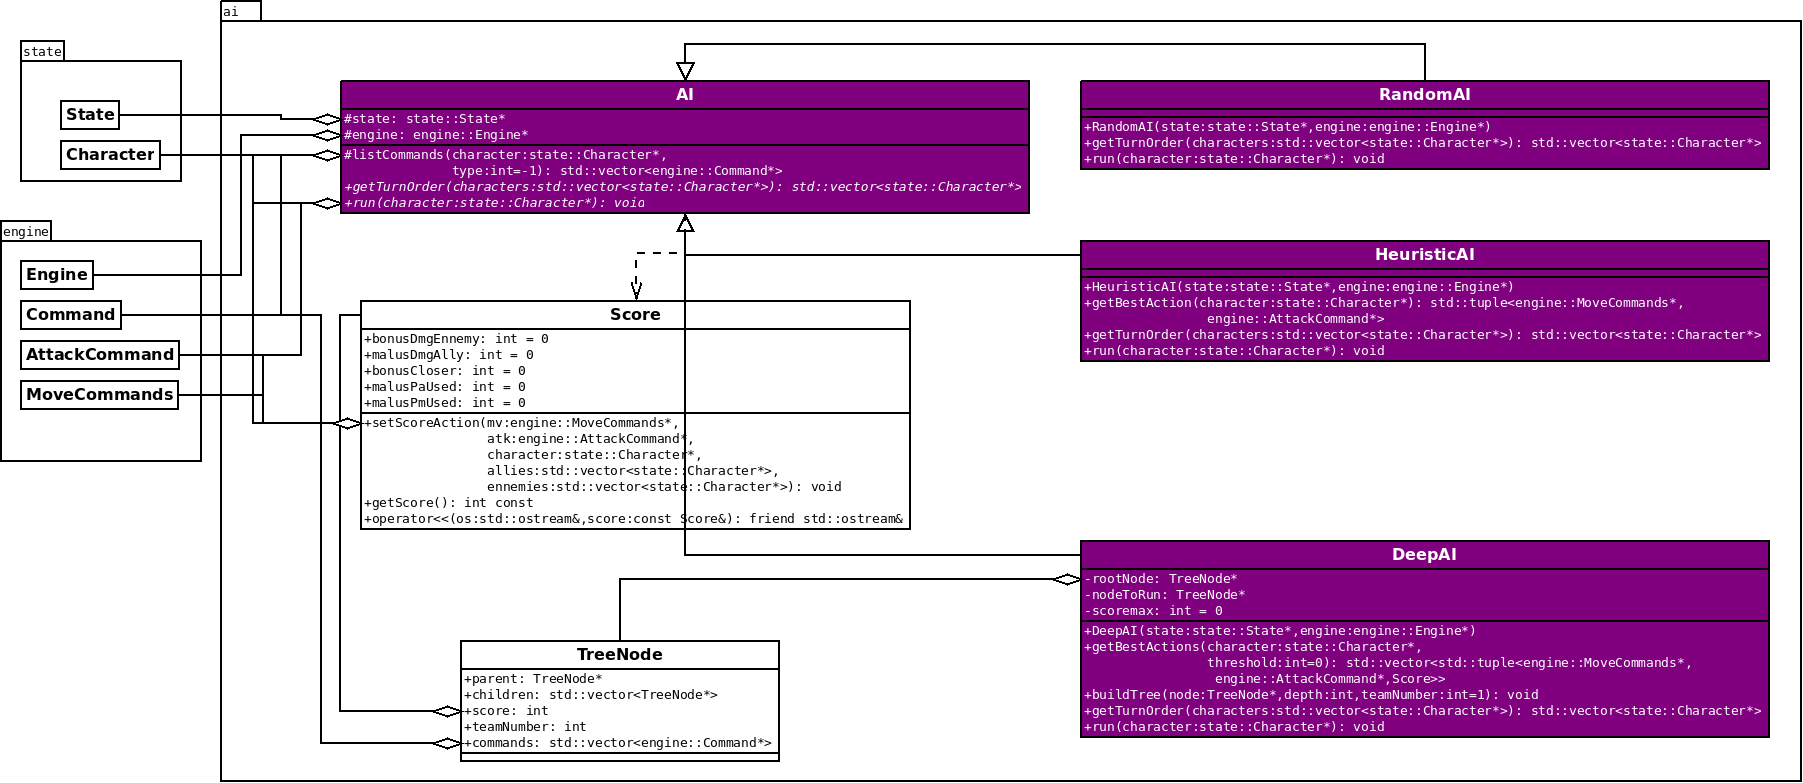
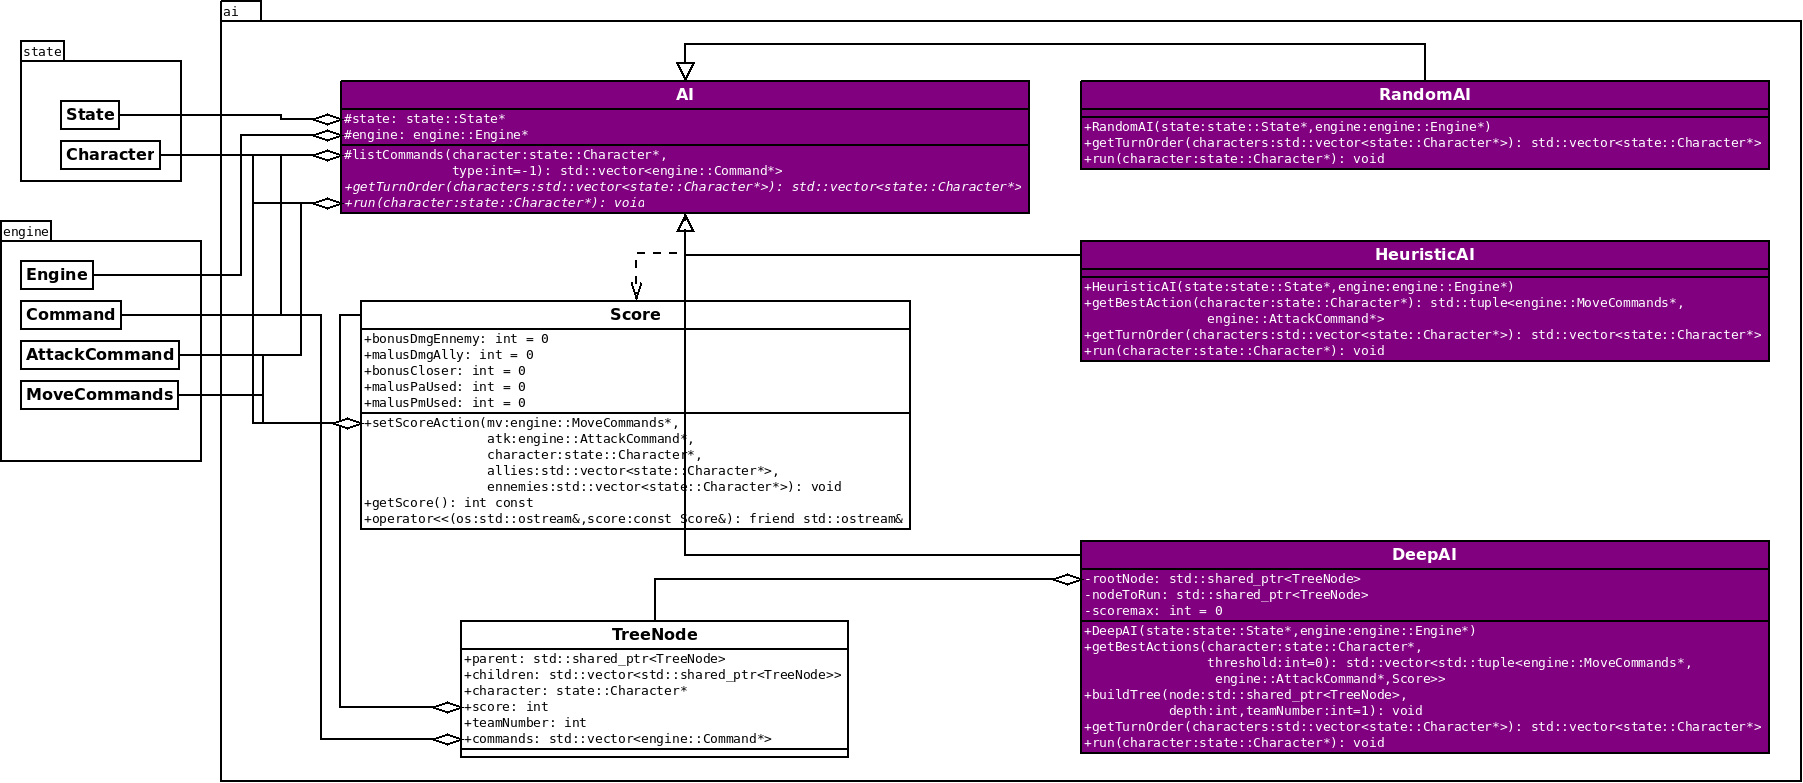
ia avancee fonctionnelle mais pas efficace

Changed region(s): [[0.5901, 0.8582, 0.9939, 0.9808], [0.1864, 0.7356, 0.4659, 0.9808], [0.6522, 0.7356, 0.7765, 0.7663]]

diff --git a/src/shared/ai/DeepAI.cpp b/src/shared/ai/DeepAI.cpp
@@ -94,7 +94,8 @@ vector<tuple<MoveCommands*, AttackCommand*, Score>> DeepAI::getBestActions(
   return actions;
 }
 
-void DeepAI::buildTree(TreeNode* node, int depth, int teamNumber) {
+void DeepAI::buildTree(shared_ptr<TreeNode> node, int depth, int teamNumber) {
+  int threshold = 200;
   if (depth == 0) {
     if (node->score > scoremax) {
       nodeToRun = node;
@@ -111,7 +112,7 @@ void DeepAI::buildTree(TreeNode* node, int depth, int teamNumber) {
 
   vector<vector<tuple<MoveCommands*, AttackCommand*, Score>>> actionss;
   for (auto character : allies) {
-    actionss.push_back(getBestActions(character, 200));
+    actionss.push_back(getBestActions(character, threshold));
   }
 
   if (actionss.size() == 0) {
@@ -127,55 +128,64 @@ void DeepAI::buildTree(TreeNode* node, int depth, int teamNumber) {
     allies = fight->getFightingCharacters(teamNumber);
     ennemies = fight->getFightingCharacters(1 - teamNumber);
     for (auto character : allies) {
-      actionss.push_back(getBestActions(character, 200));
+      actionss.push_back(getBestActions(character, threshold));
     }
   }
 
-  int k = 0;
+  int k = 0, k2 = 0;
   for (auto character : allies) {
-    auto actions = actionss[k++];
-    int i0 = character->getI(), j0 = character->getJ();
-    for (auto action : actions) {
-      MoveCommands* mv = get<0>(action);
-      AttackCommand* atk = get<1>(action);
-      int i, j;
-      if (mv) {
-        i = mv->getDiff()[0], j = mv->getDiff()[1];
-      }
-      TreeNode* childNode = new TreeNode();
-      childNode->commands.push_back(mv);
-      childNode->commands.push_back(atk);
-      childNode->parent = node;
-      childNode->teamNumber = teamNumber;
-      childNode->score =
-          node->score + (2 * teamNumber - 1) * get<2>(action).getScore();
-      // cout << childNode << " " << teamNumber << " " <<
-      // get<2>(action).getScore()
-      //      << " " << depth << endl;
-      node->children.push_back(childNode);
-      if (mv) {
-        MoveCommand mvcmd(state, character, i0 + i, j0 + j, i + j);
-        mvcmd.execute();
-      }
-      if (atk) {
-        DamageCommand dmgcmd(state, engine, atk->getZone(1), {-1}, 0, 0,
-                             character->getWeapon()
-                                 ->getAbility(atk->getAbilityNumber())
-                                 ->getDamage());
-        dmgcmd.execute();
-      }
-      buildTree(childNode, depth - 1);
-      if (atk) {
-        DamageCommand dmgcmd(state, engine, atk->getZone(1), {-1}, 0, 0,
-                             character->getWeapon()
-                                 ->getAbility(atk->getAbilityNumber())
-                                 ->getDamage());
-        dmgcmd.setReverse();
-        dmgcmd.execute();
-      }
-      if (mv) {
-        MoveCommand mvcmd(state, character, i0, j0, -(i + j));
-        mvcmd.execute();
+    if (character == node->character)
+      break;
+    k2++;
+  }
+  for (auto character : allies) {
+    if (node->character == nullptr || node->character == character ||
+        actionss[k2].size() == 0) {
+      auto actions = actionss[k++];
+      int i0 = character->getI(), j0 = character->getJ();
+      for (auto action : actions) {
+        MoveCommands* mv = get<0>(action);
+        AttackCommand* atk = get<1>(action);
+        int i, j;
+        if (mv) {
+          i = mv->getDiff()[0], j = mv->getDiff()[1];
+        }
+        shared_ptr<TreeNode> childNode(new TreeNode());
+        childNode->commands.push_back(mv);
+        childNode->commands.push_back(atk);
+        childNode->character = character;
+        childNode->parent = node;
+        childNode->teamNumber = teamNumber;
+        childNode->score =
+            node->score + (2 * teamNumber - 1) * get<2>(action).getScore();
+        // cout << childNode << " " << teamNumber << " " <<
+        // get<2>(action).getScore()
+        //      << " " << depth << endl;
+        node->children.push_back(childNode);
+        if (mv) {
+          MoveCommand mvcmd(state, character, i0 + i, j0 + j, i + j);
+          mvcmd.execute();
+        }
+        if (atk) {
+          DamageCommand dmgcmd(state, engine, atk->getZone(1), {-1}, 0, 0,
+                               character->getWeapon()
+                                   ->getAbility(atk->getAbilityNumber())
+                                   ->getDamage());
+          dmgcmd.execute();
+        }
+        buildTree(childNode, depth - 1);
+        if (atk) {
+          DamageCommand dmgcmd(state, engine, atk->getZone(1), {-1}, 0, 0,
+                               character->getWeapon()
+                                   ->getAbility(atk->getAbilityNumber())
+                                   ->getDamage());
+          dmgcmd.setReverse();
+          dmgcmd.execute();
+        }
+        if (mv) {
+          MoveCommand mvcmd(state, character, i0, j0, -(i + j));
+          mvcmd.execute();
+        }
       }
     }
   }
@@ -184,10 +194,10 @@ void DeepAI::buildTree(TreeNode* node, int depth, int teamNumber) {
 vector<Character*> DeepAI::getTurnOrder(vector<Character*> characters) {
   vector<Character*> v;
   scoremax = 0;
-  TreeNode* root = new TreeNode();
+  shared_ptr<TreeNode> root(new TreeNode());
   buildTree(root, 2);
   // cout << endl << scoremax << " " << nodeToRun << endl;
-  TreeNode* node = nodeToRun;
+  shared_ptr<TreeNode> node = nodeToRun;
   if (node) {
     vector<Command*> cmds;
     while (node != root) {
@@ -196,8 +206,11 @@ vector<Character*> DeepAI::getTurnOrder(vector<Character*> characters) {
       node = node->parent;
     }
     while (cmds.size()) {
-      engine->addCommand(cmds.back());
+      if (cmds.back())
+        engine->addCommand(cmds.back());
       cmds.pop_back();
+      while (engine->getSize())
+        ;
     }
   }
   return v;

diff --git a/rapport/Rapport.tex b/rapport/Rapport.tex
@@ -346,7 +346,7 @@ Une liste de toutes les commandes de même score maximal est établie et une com
 
 \subsubsection{Intelligence avancée}
 
-L'IA balaye plusieurs options parmi ses meilleurs coups (actions avec un score au dessus d'un certain seuil fixé) grâce à un arbre de profondeur fixé, représenté par la classe TreeNode, mais cette fois elle peut anticiper les mouvements adverses (qui soustraient leur score au noeud de l'arbre) et permettre de changer plusieurs fois de personnage au lieu de les faire jouer séquentiellement. Le système de score reste identique à celui de l'intelligence heuristique. Un système de rollback permet d'annuler les actions éxécutées de proche en proche, modifiant directement l'état, au lieu de stocker plusieurs copies de l'état actuel.
+L'IA balaye plusieurs options parmi ses meilleurs coups (actions avec un score au dessus d'un certain seuil fixé) grâce à un arbre de profondeur fixé, représenté par la classe TreeNode, mais cette fois elle peut anticiper les mouvements adverses (qui soustraient leur score au noeud de l'arbre) si la profondeur de l'arbre est assez grande. Le système de score reste identique à celui de l'intelligence heuristique. Un système de rollback permet d'annuler les actions éxécutées de proche en proche, modifiant directement l'état, au lieu de stocker plusieurs copies de l'état actuel.
 
 \clearpage
 \subsection{Conception logiciel}

diff --git a/src/shared/ai/DeepAI.h b/src/shared/ai/DeepAI.h
@@ -2,6 +2,7 @@
 #ifndef AI__DEEPAI__H
 #define AI__DEEPAI__H
 
+#include <memory>
 #include <vector>
 
 namespace ai {
@@ -20,8 +21,8 @@ namespace ai {
   class AI;
 }
 
-#include "AI.h"
 #include "TreeNode.h"
+#include "AI.h"
 
 namespace ai {
 
@@ -30,14 +31,14 @@ namespace ai {
     // Associations
     // Attributes
   private:
-    TreeNode* rootNode;
-    TreeNode* nodeToRun;
+    std::shared_ptr<TreeNode> rootNode;
+    std::shared_ptr<TreeNode> nodeToRun;
     int scoremax     = 0;
     // Operations
   public:
     DeepAI (state::State* state, engine::Engine* engine);
     std::vector<std::tuple<engine::MoveCommands*, engine::AttackCommand*,Score>> getBestActions (state::Character* character, int threshold = 0);
-    void buildTree (TreeNode* node, int depth, int teamNumber = 1);
+    void buildTree (std::shared_ptr<TreeNode> node, int depth, int teamNumber = 1);
     std::vector<state::Character*> getTurnOrder (std::vector<state::Character*> characters);
     void run (state::Character* character);
     // Setters and Getters

diff --git a/src/shared/ai/TreeNode.h b/src/shared/ai/TreeNode.h
@@ -2,10 +2,14 @@
 #ifndef AI__TREENODE__H
 #define AI__TREENODE__H
 
+#include <memory>
 #include <vector>
 
 namespace ai {
   class TreeNode;
+};
+namespace state {
+  class Character;
 };
 namespace engine {
   class Command;
@@ -24,8 +28,9 @@ namespace ai {
     // Associations
     // Attributes
   public:
-    TreeNode* parent;
-    std::vector<TreeNode*> children;
+    std::shared_ptr<TreeNode> parent;
+    std::vector<std::shared_ptr<TreeNode>> children;
+    state::Character* character;
     int score;
     int teamNumber;
     std::vector<engine::Command*> commands;

diff --git a/src/shared/engine/FightCommand.cpp b/src/shared/engine/FightCommand.cpp
@@ -66,6 +66,7 @@ void FightCommand::execute() {
           engine->addCommand(new MoveCommand(state, oppchars, oppchars->getI(),
                                              oppchars->getJ()));
           engine->addCommand(new MoveCommand(state, oppchars, i, j));
+          state->getCell(i, j)->setContent(perso);
           // state->moveCharacter(oppchars, i, j);
           oppchars->setDirection(south);
         }

diff --git a/src/shared/engine/AttackCommand.cpp b/src/shared/engine/AttackCommand.cpp
@@ -27,7 +27,7 @@ int AttackCommand::getAbilityNumber() {
   return abilityNumber;
 }
 
-// in absolute pos (not relative to character or view)
+// in relative pos
 
 void AttackCommand::setZones(bool cut) {
   int n = state->getN(), m = state->getM();
